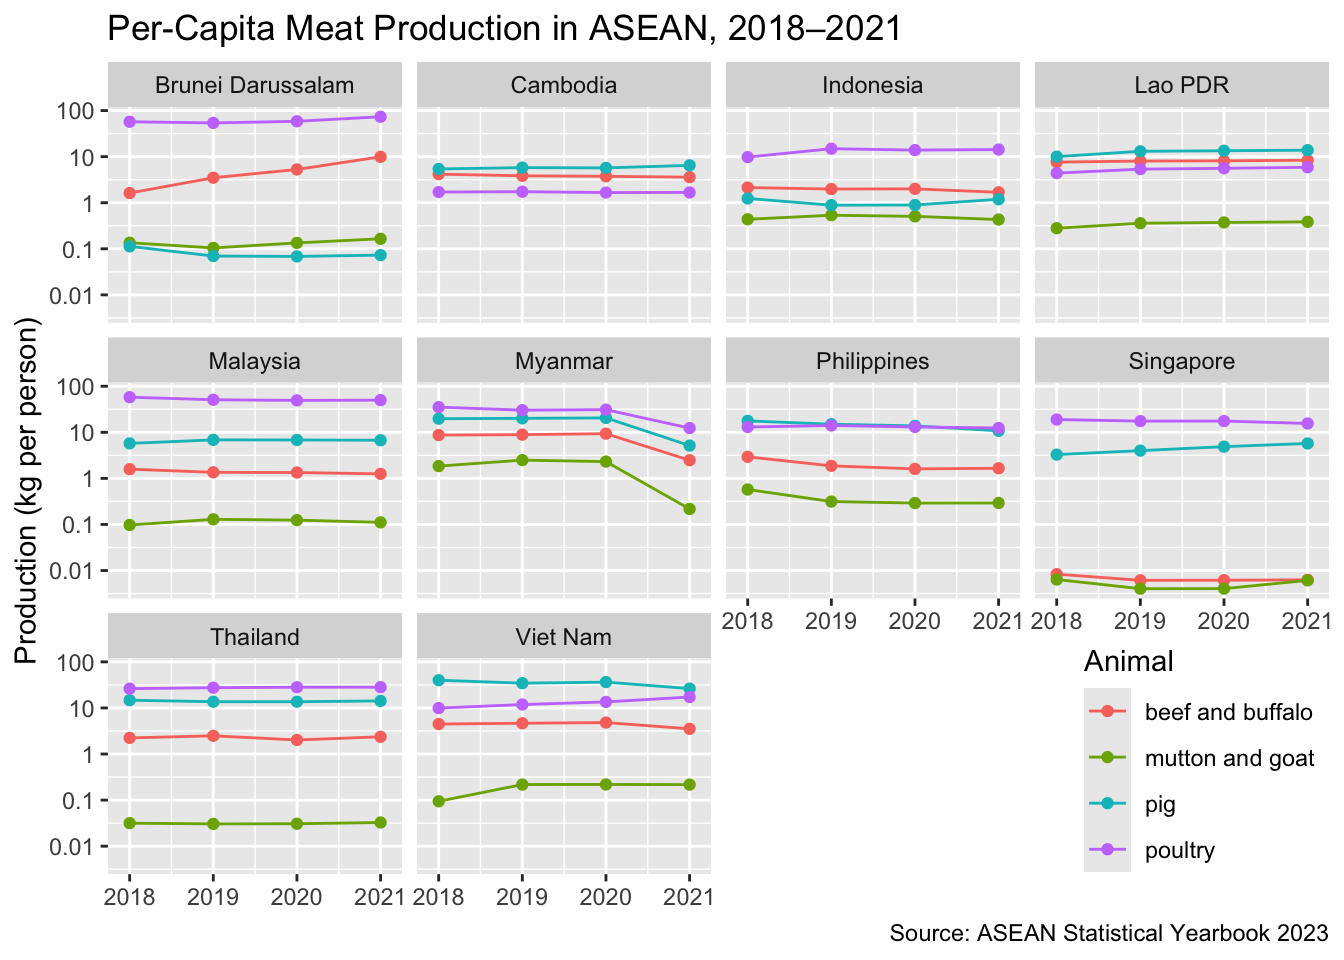
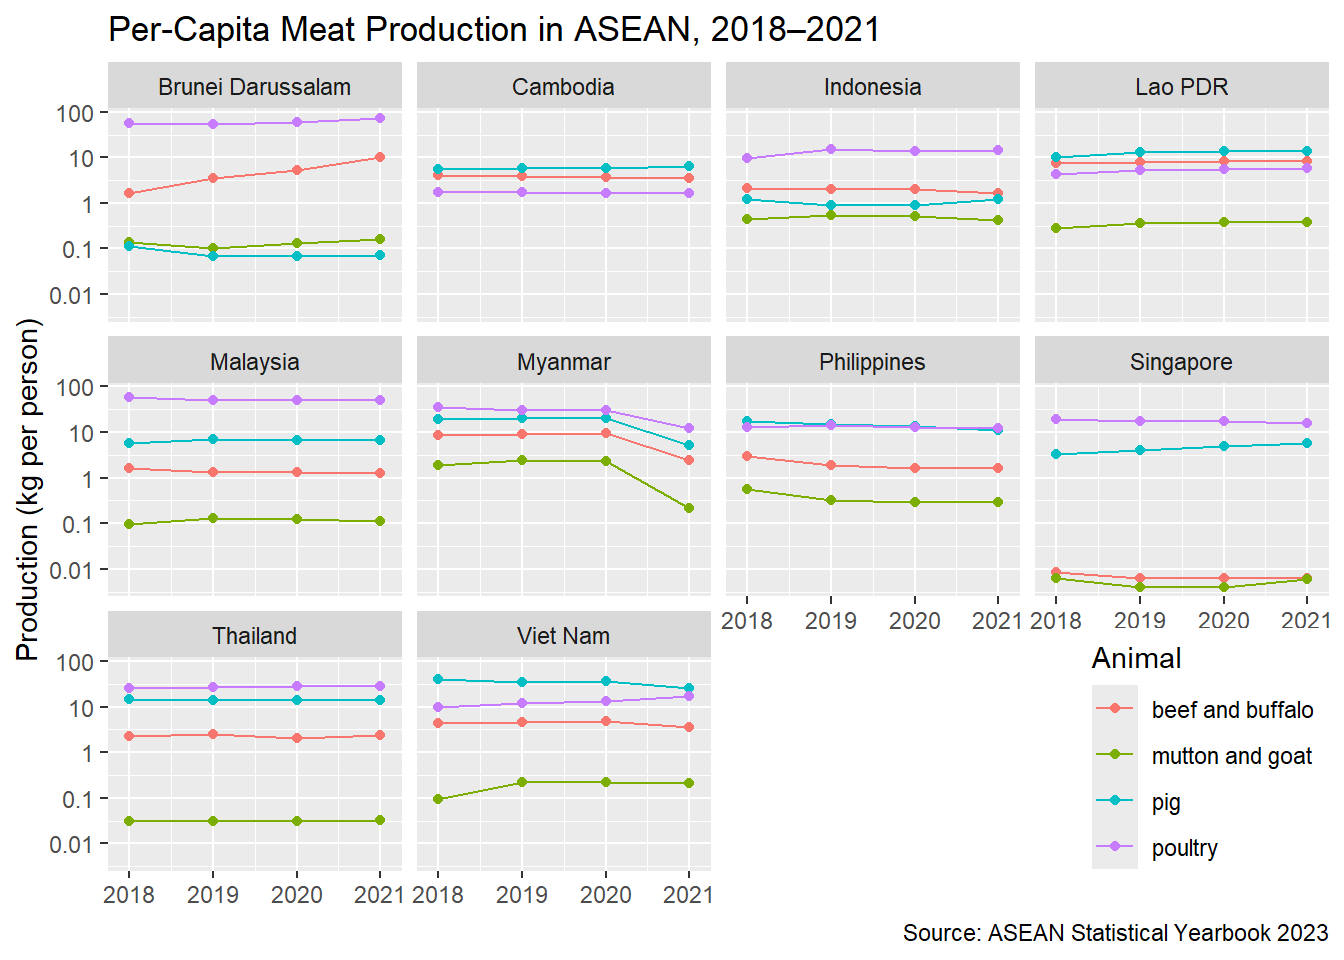
Update of qmd

diff --git a/week3-lab.html b/week3-lab.html
@@ -71,7 +71,7 @@ pre > code.sourceCode > span > a:first-child::before { text-decoration: underlin
 <link href="week3-lab_files/libs/quarto-html/quarto-syntax-highlighting-7f8f88aac4f3542376d5c11b86a4c14d.css" rel="stylesheet" id="quarto-text-highlighting-styles">
 <script src="week3-lab_files/libs/bootstrap/bootstrap.min.js"></script>
 <link href="week3-lab_files/libs/bootstrap/bootstrap-icons.css" rel="stylesheet">
-<link href="week3-lab_files/libs/bootstrap/bootstrap-138a6193a3bd40baf1e627da441a4734.min.css" rel="stylesheet" append-hash="true" id="quarto-bootstrap" data-mode="light">
+<link href="week3-lab_files/libs/bootstrap/bootstrap-efbb37e9afcc02144ebbc7afd12a776f.min.css" rel="stylesheet" append-hash="true" id="quarto-bootstrap" data-mode="light">
 
   <script src="https://cdnjs.cloudflare.com/polyfill/v3/polyfill.min.js?features=es6"></script>
   <script defer="" src="https://cdn.jsdelivr.net/npm/mathjax@3/es5/tex-chtml-full.js" type="text/javascript"></script>
@@ -113,23 +113,25 @@ window.Quarto = {
     <h2 id="toc-title">Table of contents</h2>
    
   <ul>
-  <li><a href="#jun-lum" id="toc-jun-lum" class="nav-link active" data-scroll-target="#jun-lum"><span class="header-section-number">0.1</span> Jun Lum</a></li>
-  <li><a href="#ben" id="toc-ben" class="nav-link" data-scroll-target="#ben"><span class="header-section-number">0.2</span> Ben</a></li>
-  <li><a href="#zen" id="toc-zen" class="nav-link" data-scroll-target="#zen"><span class="header-section-number">0.3</span> Zen</a></li>
-  <li><a href="#reporter-summary-team" id="toc-reporter-summary-team" class="nav-link" data-scroll-target="#reporter-summary-team"><span class="header-section-number">0.4</span> Reporter summary (team)</a></li>
-  <li><a href="#import-the-asean-meat-production-data" id="toc-import-the-asean-meat-production-data" class="nav-link" data-scroll-target="#import-the-asean-meat-production-data"><span class="header-section-number">1</span> 3.2 Import the ASEAN Meat Production Data</a></li>
-  <li><a href="#tidy-the-meat-production-data" id="toc-tidy-the-meat-production-data" class="nav-link" data-scroll-target="#tidy-the-meat-production-data"><span class="header-section-number">2</span> 3.3 Tidy the Meat Production Data</a></li>
-  <li><a href="#correct-cambodias-mutton-and-goat-entries" id="toc-correct-cambodias-mutton-and-goat-entries" class="nav-link" data-scroll-target="#correct-cambodias-mutton-and-goat-entries"><span class="header-section-number">3</span> 3.4 Correct Cambodia’s Mutton-and-Goat Entries</a></li>
-  <li><a href="#checkpoint-compare-meat_tidy-to-reference-data" id="toc-checkpoint-compare-meat_tidy-to-reference-data" class="nav-link" data-scroll-target="#checkpoint-compare-meat_tidy-to-reference-data"><span class="header-section-number">4</span> 3.5 Checkpoint: Compare <code>meat_tidy</code> to Reference Data</a></li>
-  <li><a href="#tidy-the-population-data" id="toc-tidy-the-population-data" class="nav-link" data-scroll-target="#tidy-the-population-data"><span class="header-section-number">5</span> 3.6 Tidy the Population Data</a></li>
-  <li><a href="#checkpoint-compare-pop_tidy-to-reference-data" id="toc-checkpoint-compare-pop_tidy-to-reference-data" class="nav-link" data-scroll-target="#checkpoint-compare-pop_tidy-to-reference-data"><span class="header-section-number">6</span> 3.7 Checkpoint: Compare <code>pop_tidy</code> to Reference Data</a></li>
-  <li><a href="#join-meat-production-to-population" id="toc-join-meat-production-to-population" class="nav-link" data-scroll-target="#join-meat-production-to-population"><span class="header-section-number">7</span> 3.8 Join Meat Production to Population</a></li>
-  <li><a href="#derive-per-capita-production" id="toc-derive-per-capita-production" class="nav-link" data-scroll-target="#derive-per-capita-production"><span class="header-section-number">8</span> 3.9 Derive Per-Capita Production</a></li>
-  <li><a href="#checkpoint-compare-merged-to-reference-data" id="toc-checkpoint-compare-merged-to-reference-data" class="nav-link" data-scroll-target="#checkpoint-compare-merged-to-reference-data"><span class="header-section-number">9</span> 3.10 Checkpoint: Compare <code>merged</code> to Reference Data</a></li>
-  <li><a href="#visualize-the-result" id="toc-visualize-the-result" class="nav-link" data-scroll-target="#visualize-the-result"><span class="header-section-number">10</span> 3.11 Visualize the Result</a></li>
-  <li><a href="#comment-on-the-plot" id="toc-comment-on-the-plot" class="nav-link" data-scroll-target="#comment-on-the-plot"><span class="header-section-number">11</span> 3.12 Comment on the Plot</a></li>
-  <li><a href="#reflect-on-ai-use" id="toc-reflect-on-ai-use" class="nav-link" data-scroll-target="#reflect-on-ai-use"><span class="header-section-number">12</span> 4.1 Reflect on AI Use</a></li>
-  <li><a href="#roles-and-contributions" id="toc-roles-and-contributions" class="nav-link" data-scroll-target="#roles-and-contributions"><span class="header-section-number">13</span> 4.2 Roles and Contributions</a></li>
+  <li><a href="#summary-of-team-predictions-sheet-x.14" id="toc-summary-of-team-predictions-sheet-x.14" class="nav-link active" data-scroll-target="#summary-of-team-predictions-sheet-x.14">3.1 Summary of Team Predictions (Sheet X.14)</a>
+  <ul class="collapse">
+  <li><a href="#part-a-b-columns-classes-and-row-counts" id="toc-part-a-b-columns-classes-and-row-counts" class="nav-link" data-scroll-target="#part-a-b-columns-classes-and-row-counts">Part A &amp; B: Columns, Classes, and Row Counts</a></li>
+  <li><a href="#part-c-why-is-sheet-x.14-not-tidy" id="toc-part-c-why-is-sheet-x.14-not-tidy" class="nav-link" data-scroll-target="#part-c-why-is-sheet-x.14-not-tidy">Part C: Why is Sheet X.14 not tidy</a></li>
+  <li><a href="#reporter-summary-team" id="toc-reporter-summary-team" class="nav-link" data-scroll-target="#reporter-summary-team">Reporter summary (team)</a></li>
+  </ul></li>
+  <li><a href="#import-the-asean-meat-production-data" id="toc-import-the-asean-meat-production-data" class="nav-link" data-scroll-target="#import-the-asean-meat-production-data">3.2 Import the ASEAN Meat Production Data</a></li>
+  <li><a href="#tidy-the-meat-production-data" id="toc-tidy-the-meat-production-data" class="nav-link" data-scroll-target="#tidy-the-meat-production-data">3.3 Tidy the Meat Production Data</a></li>
+  <li><a href="#correct-cambodias-mutton-and-goat-entries" id="toc-correct-cambodias-mutton-and-goat-entries" class="nav-link" data-scroll-target="#correct-cambodias-mutton-and-goat-entries">3.4 Correct Cambodia’s Mutton-and-Goat Entries</a></li>
+  <li><a href="#checkpoint-compare-meat_tidy-to-reference-data" id="toc-checkpoint-compare-meat_tidy-to-reference-data" class="nav-link" data-scroll-target="#checkpoint-compare-meat_tidy-to-reference-data">3.5 Checkpoint: Compare <code>meat_tidy</code> to Reference Data</a></li>
+  <li><a href="#tidy-the-population-data" id="toc-tidy-the-population-data" class="nav-link" data-scroll-target="#tidy-the-population-data">3.6 Tidy the Population Data</a></li>
+  <li><a href="#checkpoint-compare-pop_tidy-to-reference-data" id="toc-checkpoint-compare-pop_tidy-to-reference-data" class="nav-link" data-scroll-target="#checkpoint-compare-pop_tidy-to-reference-data">3.7 Checkpoint: Compare <code>pop_tidy</code> to Reference Data</a></li>
+  <li><a href="#join-meat-production-to-population" id="toc-join-meat-production-to-population" class="nav-link" data-scroll-target="#join-meat-production-to-population">3.8 Join Meat Production to Population</a></li>
+  <li><a href="#derive-per-capita-production" id="toc-derive-per-capita-production" class="nav-link" data-scroll-target="#derive-per-capita-production">3.9 Derive Per-Capita Production</a></li>
+  <li><a href="#checkpoint-compare-merged-to-reference-data" id="toc-checkpoint-compare-merged-to-reference-data" class="nav-link" data-scroll-target="#checkpoint-compare-merged-to-reference-data">3.10 Checkpoint: Compare <code>merged</code> to Reference Data</a></li>
+  <li><a href="#visualize-the-result" id="toc-visualize-the-result" class="nav-link" data-scroll-target="#visualize-the-result">3.11 Visualize the Result</a></li>
+  <li><a href="#comment-on-the-plot" id="toc-comment-on-the-plot" class="nav-link" data-scroll-target="#comment-on-the-plot">3.12 Comment on the Plot</a></li>
+  <li><a href="#reflect-on-ai-use" id="toc-reflect-on-ai-use" class="nav-link" data-scroll-target="#reflect-on-ai-use">4.1 Reflect on AI Use</a></li>
+  <li><a href="#roles-and-contributions" id="toc-roles-and-contributions" class="nav-link" data-scroll-target="#roles-and-contributions">4.2 Roles and Contributions</a></li>
   </ul>
 </nav>
 </div>
@@ -159,62 +161,76 @@ window.Quarto = {
 <span id="cb1-2"><a href="#cb1-2" aria-hidden="true" tabindex="-1"></a><span class="fu">library</span>(readxl)</span>
 <span id="cb1-3"><a href="#cb1-3" aria-hidden="true" tabindex="-1"></a><span class="fu">library</span>(waldo)</span></code></pre></div><button title="Copy to Clipboard" class="code-copy-button"><i class="bi"></i></button></div>
 </div>
-<section id="jun-lum" class="level3" data-number="0.1">
-<h3 data-number="0.1" class="anchored" data-anchor-id="jun-lum"><span class="header-section-number">0.1</span> Jun Lum</h3>
-<p>skip = 3</p>
-<ul>
-<li><code>country</code> (character)</li>
-<li><code>animal</code> / animal type (character)</li>
-<li><code>year</code> (numeric)</li>
-<li><code>production</code> (numeric)</li>
-</ul>
-<p><strong>b) Expected number of rows</strong></p>
-<p><span class="math inline">\(10 \text{ countries} \times 4 \text{ years} \times 4 \text{ animal types} = 160\)</span> rows.</p>
-<p><strong>c) Why sheet X.14 is not tidy</strong></p>
-<ul>
-<li>Years are used as a header row (not a <code>year</code> column).</li>
-<li>Country names appear as column headers (not a <code>country</code> column).</li>
-<li>Total rows mix raw data with summary data.</li>
-</ul>
+<section id="summary-of-team-predictions-sheet-x.14" class="level2">
+<h2 class="anchored" data-anchor-id="summary-of-team-predictions-sheet-x.14">3.1 Summary of Team Predictions (Sheet X.14)</h2>
+<p>As the Team Reporter, I have compiled the predictions from Jun Lum, Benjamin, Bryan, and Zen regarding the tidying of sheet X.14.</p>
+<section id="part-a-b-columns-classes-and-row-counts" class="level3">
+<h3 class="anchored" data-anchor-id="part-a-b-columns-classes-and-row-counts">Part A &amp; B: Columns, Classes, and Row Counts</h3>
+<p>The table below summarizes the team’s expectations for the final tidy dataset structure.</p>
+<table class="caption-top table">
+<colgroup>
+<col style="width: 25%">
+<col style="width: 25%">
+<col style="width: 25%">
+<col style="width: 25%">
+</colgroup>
+<thead>
+<tr class="header">
+<th style="text-align: left;">Member</th>
+<th style="text-align: left;">Expected Columns &amp; Classes</th>
+<th style="text-align: left;">Expected Rows</th>
+<th style="text-align: left;">Reasoning / Formula</th>
+</tr>
+</thead>
+<tbody>
+<tr class="odd">
+<td style="text-align: left;"><strong>Jun Lum</strong></td>
+<td style="text-align: left;">Country (Char), Animal Type (Char), Year (Num), Production (Num)</td>
+<td style="text-align: left;">160</td>
+<td style="text-align: left;"><span class="math inline">\(10 \text{ countries} \times 4 \text{ years} \times 4 \text{ animal types}\)</span></td>
+</tr>
+<tr class="even">
+<td style="text-align: left;"><strong>Benjamin</strong></td>
+<td style="text-align: left;">Country (Char), Animal Type (Char), Year (Num), Production (Num)</td>
+<td style="text-align: left;">160</td>
+<td style="text-align: left;"><span class="math inline">\(10 \text{ countries} \times 4 \text{ years} \times 4 \text{ animal types}\)</span></td>
+</tr>
+<tr class="odd">
+<td style="text-align: left;"><strong>Bryan</strong></td>
+<td style="text-align: left;">Country (Char), Animal Type (Char), Year (Num), Production (Num)</td>
+<td style="text-align: left;">160</td>
+<td style="text-align: left;"><span class="math inline">\(10 \text{ countries} \times 4 \text{ years} \times 4 \text{ animal types}\)</span></td>
+</tr>
+<tr class="even">
+<td style="text-align: left;"><strong>Zen</strong></td>
+<td style="text-align: left;">Country (Char), Animal Type (Char), Year (Num), Production (Num)</td>
+<td style="text-align: left;">160</td>
+<td style="text-align: left;"><span class="math inline">\(10 \text{ countries} \times 4 \text{ years} \times 4 \text{ animal types}\)</span></td>
+</tr>
+</tbody>
+</table>
+<hr>
 </section>
-<section id="ben" class="level3" data-number="0.2">
-<h3 data-number="0.2" class="anchored" data-anchor-id="ben"><span class="header-section-number">0.2</span> Ben</h3>
-<p><strong>a) Columns and classes</strong> rename(country = 1) %&gt;% select(where(~ !all(is.na(.x)))) %&gt;% mutate(country = str_squish(as.character(country))) %&gt;% filter(!is.na(country), country != ““, country !=”ASEAN”) %&gt;% pivot_longer( cols = -country, names_to = “year”, values_to = “pop” ) %&gt;% mutate( year = as.numeric(year), pop = as.numeric(pop) ) %&gt;% <strong>a) Columns and classes</strong></p>
+<section id="part-c-why-is-sheet-x.14-not-tidy" class="level3">
+<h3 class="anchored" data-anchor-id="part-c-why-is-sheet-x.14-not-tidy">Part C: Why is Sheet X.14 not tidy</h3>
+<p>The team identified several distinct violations of tidy data principles in the current layout:</p>
 <ul>
-<li><code>animal</code> / animal type (character)</li>
-<li><code>year</code> (numeric)</li>
-<li><code>country</code> (character)</li>
-<li><code>production</code> (numeric)</li>
-</ul>
-<p><strong>b) Expected number of rows</strong></p>
-<p><span class="math inline">\(10 \times 4 \times 4 = 160\)</span> rows.</p>
-<p><strong>c) Why sheet X.14 is not tidy</strong></p>
+<li><strong>Structural Misplacement of Variables:</strong>
 <ul>
-<li>Years are used as section labels in rows instead of being stored in a proper <code>year</code> column.</li>
-<li>Animal type is mixed with category headings and totals.</li>
-<li>Missing values are represented using symbols like <code>-</code>.</li>
+<li><strong>Years:</strong> Jun Lum and Zen identified years acting as column headers, whereas ben and Bryan noted that years are serving as section labels/stacked within rows.</li>
+<li><strong>Headers:</strong> Jun Lum noted individual country names are being used as column headers.</li>
+</ul></li>
+<li><strong>Mixing Data Levels (Raw vs.&nbsp;Aggregated):</strong> Jun Lum, Benjamin, and Zen all noted that summary columns/rows (e.g., the <strong>ASEAN total column</strong>) are mixed directly into the raw data.</li>
+<li><strong>Data Quality &amp; Redundancy:</strong>
+<ul>
+<li>Benjamin pointed out that “Poultry” rows contain no data and should be removed entirely.</li>
+<li>Bryan noted that missing values are represented inconsistently using symbols like <code>-</code>.</li>
+</ul></li>
 </ul>
+<hr>
 </section>
-<section id="zen" class="level3" data-number="0.3">
-<h3 data-number="0.3" class="anchored" data-anchor-id="zen"><span class="header-section-number">0.3</span> Zen</h3>
-<p><strong>a) Columns and classes</strong></p>
-<ul>
-<li><code>country</code> (character)</li>
-<li><code>animal</code> / animal type (character)</li>
-<li><code>year</code> (numeric)</li>
-<li><code>production</code> (numeric)</li>
-</ul>
-<p><strong>b) Expected number of rows</strong></p>
-<p><span class="math inline">\(10 \text{ countries} \times 4 \text{ years} \times 4 \text{ animal types} = 160\)</span> rows.</p>
-<p><strong>c) Why sheet X.14 is not tidy</strong></p>
-<ul>
-<li>Years are encoded as column headers rather than values.</li>
-<li>Country names and animal groupings are embedded in the layout rather than explicit variables.</li>
-<li>The sheet includes totals/aggregates alongside raw values.</li>
-</ul>
-</section>
-<section id="reporter-summary-team" class="level3" data-number="0.4">
-<h3 data-number="0.4" class="anchored" data-anchor-id="reporter-summary-team"><span class="header-section-number">0.4</span> Reporter summary (team)</h3>
+<section id="reporter-summary-team" class="level3">
+<h3 class="anchored" data-anchor-id="reporter-summary-team">Reporter summary (team)</h3>
 <ul>
 <li><strong>Agreed tidy variables:</strong> <code>country</code> (character), <code>animal</code> (character), <code>year</code> (numeric), <code>production</code> (numeric).</li>
 <li><strong>Agreed row count:</strong> 160 rows (<span class="math inline">\(10 \times 4 \times 4\)</span>).</li>
@@ -222,39 +238,40 @@ window.Quarto = {
 <li><strong>Discrepancies to resolve during cleaning:</strong> Ben expects poultry to have no data and be removable; others treat poultry as one of the four animal categories required by the task. Bryan notes missing values shown as <code>-</code> in the source.</li>
 </ul>
 </section>
-<section id="import-the-asean-meat-production-data" class="level2" data-number="1">
-<h2 data-number="1" class="anchored" data-anchor-id="import-the-asean-meat-production-data"><span class="header-section-number">1</span> 3.2 Import the ASEAN Meat Production Data</h2>
+</section>
+<section id="import-the-asean-meat-production-data" class="level2">
+<h2 class="anchored" data-anchor-id="import-the-asean-meat-production-data">3.2 Import the ASEAN Meat Production Data</h2>
 <p>Open <code>ASEAN-Statistical-Yearbook-2023.xlsx</code> and identify the cell range containing the table in sheet <code>X.14</code>.</p>
 <div class="cell">
 <div class="code-copy-outer-scaffold"><div class="sourceCode cell-code" id="cb2"><pre class="sourceCode r code-with-copy"><code class="sourceCode r"><span id="cb2-1"><a href="#cb2-1" aria-hidden="true" tabindex="-1"></a>meat_raw <span class="ot">&lt;-</span> <span class="fu">read_xlsx</span>(</span>
 <span id="cb2-2"><a href="#cb2-2" aria-hidden="true" tabindex="-1"></a>  <span class="at">path =</span> <span class="st">"ASEAN-Statistical-Yearbook-2023.xlsx"</span>,</span>
 <span id="cb2-3"><a href="#cb2-3" aria-hidden="true" tabindex="-1"></a>  <span class="at">sheet =</span> <span class="st">"X.14"</span>,</span>
-<span id="cb2-4"><a href="#cb2-4" aria-hidden="true" tabindex="-1"></a>  <span class="at">skip =</span> <span class="dv">3</span></span>
+<span id="cb2-4"><a href="#cb2-4" aria-hidden="true" tabindex="-1"></a>  <span class="at">range =</span> <span class="st">"A4:L36"</span></span>
 <span id="cb2-5"><a href="#cb2-5" aria-hidden="true" tabindex="-1"></a>)</span>
 <span id="cb2-6"><a href="#cb2-6" aria-hidden="true" tabindex="-1"></a></span>
 <span id="cb2-7"><a href="#cb2-7" aria-hidden="true" tabindex="-1"></a>meat_raw</span></code></pre></div><button title="Copy to Clipboard" class="code-copy-button"><i class="bi"></i></button></div>
 <div class="cell-output cell-output-stdout">
-<pre><code># A tibble: 35 × 12
+<pre><code># A tibble: 32 × 12
    `Animal Type`       `Brunei Darussalam` Cambodia Indonesia `Lao PDR` Malaysia
-   &lt;chr&gt;                             &lt;dbl&gt; &lt;chr&gt;        &lt;dbl&gt;     &lt;dbl&gt;    &lt;dbl&gt;
- 1 2021                            NA      &lt;NA&gt;           NA      NA       NA   
- 2 Livestock producti…             NA      &lt;NA&gt;           NA      NA       NA   
- 3 Beef and Buffalo M…              4.27   59.5242…      459.     61.3     40.8 
- 4 Pig meat                         0.0314 107.363…      324.    102.     219.  
- 5 Mutton and Goat Me…              0.0709 0             118.      2.83     3.62
- 6 Poultry production               0      0               0       0        0   
- 7 Poultry meat                    31.6    27.7554…     3889.     43.2   1625.  
- 8 Total meat product…             36.0    194.643…     4789.    209.    1889.  
- 9 2020                             0      0               0       0        0   
-10 Livestock producti…              0      0               0       0        0   
-# ℹ 25 more rows
+   &lt;chr&gt;                             &lt;dbl&gt;    &lt;dbl&gt;     &lt;dbl&gt;     &lt;dbl&gt;    &lt;dbl&gt;
+ 1 2021                            NA          NA         NA      NA       NA   
+ 2 Livestock producti…             NA          NA         NA      NA       NA   
+ 3 Beef and Buffalo M…              4.27       59.5      459.     61.3     40.8 
+ 4 Pig meat                         0.0314    107.       324.    102.     219.  
+ 5 Mutton and Goat Me…              0.0709      0        118.      2.83     3.62
+ 6 Poultry production               0           0          0       0        0   
+ 7 Poultry meat                    31.6        27.8     3889.     43.2   1625.  
+ 8 Total meat product…             36.0       195.      4789.    209.    1889.  
+ 9 2020                             0           0          0       0        0   
+10 Livestock producti…              0           0          0       0        0   
+# ℹ 22 more rows
 # ℹ 6 more variables: Myanmar &lt;dbl&gt;, Philippines &lt;dbl&gt;, Singapore &lt;dbl&gt;,
 #   Thailand &lt;dbl&gt;, `Viet Nam` &lt;dbl&gt;, ASEAN &lt;dbl&gt;</code></pre>
 </div>
 </div>
 </section>
-<section id="tidy-the-meat-production-data" class="level2" data-number="2">
-<h2 data-number="2" class="anchored" data-anchor-id="tidy-the-meat-production-data"><span class="header-section-number">2</span> 3.3 Tidy the Meat Production Data</h2>
+<section id="tidy-the-meat-production-data" class="level2">
+<h2 class="anchored" data-anchor-id="tidy-the-meat-production-data">3.3 Tidy the Meat Production Data</h2>
 <div class="cell">
 <div class="code-copy-outer-scaffold"><div class="sourceCode cell-code" id="cb4"><pre class="sourceCode r code-with-copy"><code class="sourceCode r"><span id="cb4-1"><a href="#cb4-1" aria-hidden="true" tabindex="-1"></a>meat_tidy <span class="ot">&lt;-</span> meat_raw <span class="sc">%&gt;%</span></span>
 <span id="cb4-2"><a href="#cb4-2" aria-hidden="true" tabindex="-1"></a>  <span class="fu">rename</span>(<span class="at">label =</span> <span class="dv">1</span>) <span class="sc">%&gt;%</span></span>
@@ -338,8 +355,8 @@ window.Quarto = {
 </div>
 </div>
 </section>
-<section id="correct-cambodias-mutton-and-goat-entries" class="level2" data-number="3">
-<h2 data-number="3" class="anchored" data-anchor-id="correct-cambodias-mutton-and-goat-entries"><span class="header-section-number">3</span> 3.4 Correct Cambodia’s Mutton-and-Goat Entries</h2>
+<section id="correct-cambodias-mutton-and-goat-entries" class="level2">
+<h2 class="anchored" data-anchor-id="correct-cambodias-mutton-and-goat-entries">3.4 Correct Cambodia’s Mutton-and-Goat Entries</h2>
 <p>Justification (brief): we target exactly the four Cambodia + mutton-and-goat rows where the XLSX encodes missing “-” as numeric 0 for years 2018–2021, and replace only those values with <code>NA</code>.</p>
 <div class="cell">
 <div class="code-copy-outer-scaffold"><div class="sourceCode cell-code" id="cb12"><pre class="sourceCode r code-with-copy"><code class="sourceCode r"><span id="cb12-1"><a href="#cb12-1" aria-hidden="true" tabindex="-1"></a>meat_tidy <span class="ot">&lt;-</span> meat_tidy <span class="sc">%&gt;%</span></span>
@@ -368,8 +385,8 @@ window.Quarto = {
 </div>
 </div>
 </section>
-<section id="checkpoint-compare-meat_tidy-to-reference-data" class="level2" data-number="4">
-<h2 data-number="4" class="anchored" data-anchor-id="checkpoint-compare-meat_tidy-to-reference-data"><span class="header-section-number">4</span> 3.5 Checkpoint: Compare <code>meat_tidy</code> to Reference Data</h2>
+<section id="checkpoint-compare-meat_tidy-to-reference-data" class="level2">
+<h2 class="anchored" data-anchor-id="checkpoint-compare-meat_tidy-to-reference-data">3.5 Checkpoint: Compare <code>meat_tidy</code> to Reference Data</h2>
 <div class="cell">
 <div class="code-copy-outer-scaffold"><div class="sourceCode cell-code" id="cb14"><pre class="sourceCode r code-with-copy"><code class="sourceCode r"><span id="cb14-1"><a href="#cb14-1" aria-hidden="true" tabindex="-1"></a>meat_ref <span class="ot">&lt;-</span> <span class="fu">read_csv</span>(<span class="st">"meat_tidy_reference.csv"</span>, <span class="at">show_col_types =</span> <span class="cn">FALSE</span>)</span>
 <span id="cb14-2"><a href="#cb14-2" aria-hidden="true" tabindex="-1"></a><span class="fu">compare</span>(meat_tidy, meat_ref, <span class="at">tolerance =</span> <span class="fl">1e-6</span>)</span></code></pre></div><button title="Copy to Clipboard" class="code-copy-button"><i class="bi"></i></button></div>
@@ -378,8 +395,8 @@ window.Quarto = {
 </div>
 </div>
 </section>
-<section id="tidy-the-population-data" class="level2" data-number="5">
-<h2 data-number="5" class="anchored" data-anchor-id="tidy-the-population-data"><span class="header-section-number">5</span> 3.6 Tidy the Population Data</h2>
+<section id="tidy-the-population-data" class="level2">
+<h2 class="anchored" data-anchor-id="tidy-the-population-data">3.6 Tidy the Population Data</h2>
 <p>Import sheet <code>I.1</code> (population in thousands), excluding the ASEAN aggregate row.</p>
 <div class="cell">
 <div class="code-copy-outer-scaffold"><div class="sourceCode cell-code" id="cb16"><pre class="sourceCode r code-with-copy"><code class="sourceCode r"><span id="cb16-1"><a href="#cb16-1" aria-hidden="true" tabindex="-1"></a>pop_raw <span class="ot">&lt;-</span> <span class="fu">read_xlsx</span>(</span>
@@ -449,8 +466,8 @@ window.Quarto = {
 <span id="cb20-2"><a href="#cb20-2" aria-hidden="true" tabindex="-1"></a><span class="co"># so a trailing space in "Malaysia " is typically removed during import.</span></span></code></pre></div><button title="Copy to Clipboard" class="code-copy-button"><i class="bi"></i></button></div>
 </div>
 </section>
-<section id="checkpoint-compare-pop_tidy-to-reference-data" class="level2" data-number="6">
-<h2 data-number="6" class="anchored" data-anchor-id="checkpoint-compare-pop_tidy-to-reference-data"><span class="header-section-number">6</span> 3.7 Checkpoint: Compare <code>pop_tidy</code> to Reference Data</h2>
+<section id="checkpoint-compare-pop_tidy-to-reference-data" class="level2">
+<h2 class="anchored" data-anchor-id="checkpoint-compare-pop_tidy-to-reference-data">3.7 Checkpoint: Compare <code>pop_tidy</code> to Reference Data</h2>
 <div class="cell">
 <div class="code-copy-outer-scaffold"><div class="sourceCode cell-code" id="cb21"><pre class="sourceCode r code-with-copy"><code class="sourceCode r"><span id="cb21-1"><a href="#cb21-1" aria-hidden="true" tabindex="-1"></a>pop_ref <span class="ot">&lt;-</span> <span class="fu">read_csv</span>(<span class="st">"population_tidy_reference.csv"</span>, <span class="at">show_col_types =</span> <span class="cn">FALSE</span>)</span>
 <span id="cb21-2"><a href="#cb21-2" aria-hidden="true" tabindex="-1"></a><span class="fu">compare</span>(pop_tidy, pop_ref, <span class="at">tolerance =</span> <span class="fl">1e-6</span>)</span></code></pre></div><button title="Copy to Clipboard" class="code-copy-button"><i class="bi"></i></button></div>
@@ -459,8 +476,8 @@ window.Quarto = {
 </div>
 </div>
 </section>
-<section id="join-meat-production-to-population" class="level2" data-number="7">
-<h2 data-number="7" class="anchored" data-anchor-id="join-meat-production-to-population"><span class="header-section-number">7</span> 3.8 Join Meat Production to Population</h2>
+<section id="join-meat-production-to-population" class="level2">
+<h2 class="anchored" data-anchor-id="join-meat-production-to-population">3.8 Join Meat Production to Population</h2>
 <div class="cell">
 <div class="code-copy-outer-scaffold"><div class="sourceCode cell-code" id="cb23"><pre class="sourceCode r code-with-copy"><code class="sourceCode r"><span id="cb23-1"><a href="#cb23-1" aria-hidden="true" tabindex="-1"></a>merged <span class="ot">&lt;-</span> meat_tidy <span class="sc">%&gt;%</span></span>
 <span id="cb23-2"><a href="#cb23-2" aria-hidden="true" tabindex="-1"></a>  <span class="fu">left_join</span>(pop_tidy, <span class="at">by =</span> <span class="fu">c</span>(<span class="st">"country"</span>, <span class="st">"year"</span>)) <span class="sc">%&gt;%</span></span>
@@ -476,8 +493,8 @@ window.Quarto = {
 </div>
 </div>
 </section>
-<section id="derive-per-capita-production" class="level2" data-number="8">
-<h2 data-number="8" class="anchored" data-anchor-id="derive-per-capita-production"><span class="header-section-number">8</span> 3.9 Derive Per-Capita Production</h2>
+<section id="derive-per-capita-production" class="level2">
+<h2 class="anchored" data-anchor-id="derive-per-capita-production">3.9 Derive Per-Capita Production</h2>
 <p>Production is in thousand metric tons; population is in thousand persons. Thus <span class="math inline">\((\text{production}/\text{pop})\)</span> is metric tons per person; multiply by 1000 to get kg per person.</p>
 <div class="cell">
 <div class="code-copy-outer-scaffold"><div class="sourceCode cell-code" id="cb25"><pre class="sourceCode r code-with-copy"><code class="sourceCode r"><span id="cb25-1"><a href="#cb25-1" aria-hidden="true" tabindex="-1"></a>merged <span class="ot">&lt;-</span> merged <span class="sc">%&gt;%</span></span>
@@ -497,8 +514,8 @@ window.Quarto = {
 </div>
 </div>
 </section>
-<section id="checkpoint-compare-merged-to-reference-data" class="level2" data-number="9">
-<h2 data-number="9" class="anchored" data-anchor-id="checkpoint-compare-merged-to-reference-data"><span class="header-section-number">9</span> 3.10 Checkpoint: Compare <code>merged</code> to Reference Data</h2>
+<section id="checkpoint-compare-merged-to-reference-data" class="level2">
+<h2 class="anchored" data-anchor-id="checkpoint-compare-merged-to-reference-data">3.10 Checkpoint: Compare <code>merged</code> to Reference Data</h2>
 <div class="cell">
 <div class="code-copy-outer-scaffold"><div class="sourceCode cell-code" id="cb27"><pre class="sourceCode r code-with-copy"><code class="sourceCode r"><span id="cb27-1"><a href="#cb27-1" aria-hidden="true" tabindex="-1"></a>merged_ref <span class="ot">&lt;-</span> <span class="fu">read_csv</span>(<span class="st">"merged_reference.csv"</span>, <span class="at">show_col_types =</span> <span class="cn">FALSE</span>)</span>
 <span id="cb27-2"><a href="#cb27-2" aria-hidden="true" tabindex="-1"></a><span class="fu">compare</span>(merged, merged_ref, <span class="at">tolerance =</span> <span class="fl">1e-6</span>)</span></code></pre></div><button title="Copy to Clipboard" class="code-copy-button"><i class="bi"></i></button></div>
@@ -507,8 +524,8 @@ window.Quarto = {
 </div>
 </div>
 </section>
-<section id="visualize-the-result" class="level2" data-number="10">
-<h2 data-number="10" class="anchored" data-anchor-id="visualize-the-result"><span class="header-section-number">10</span> 3.11 Visualize the Result</h2>
+<section id="visualize-the-result" class="level2">
+<h2 class="anchored" data-anchor-id="visualize-the-result">3.11 Visualize the Result</h2>
 <div class="cell">
 <div class="code-copy-outer-scaffold"><div class="sourceCode cell-code" id="cb29"><pre class="sourceCode r code-with-copy"><code class="sourceCode r"><span id="cb29-1"><a href="#cb29-1" aria-hidden="true" tabindex="-1"></a><span class="fu">ggplot</span>(</span>
 <span id="cb29-2"><a href="#cb29-2" aria-hidden="true" tabindex="-1"></a>  merged,</span>
@@ -543,20 +560,20 @@ window.Quarto = {
 </div>
 </div>
 </section>
-<section id="comment-on-the-plot" class="level2" data-number="11">
-<h2 data-number="11" class="anchored" data-anchor-id="comment-on-the-plot"><span class="header-section-number">11</span> 3.12 Comment on the Plot</h2>
+<section id="comment-on-the-plot" class="level2">
+<h2 class="anchored" data-anchor-id="comment-on-the-plot">3.12 Comment on the Plot</h2>
 <p>(Write 1+ noteworthy feature and cite a credible source that helps interpret it.)</p>
 </section>
-<section id="reflect-on-ai-use" class="level2" data-number="12">
-<h2 data-number="12" class="anchored" data-anchor-id="reflect-on-ai-use"><span class="header-section-number">12</span> 4.1 Reflect on AI Use</h2>
+<section id="reflect-on-ai-use" class="level2">
+<h2 class="anchored" data-anchor-id="reflect-on-ai-use">4.1 Reflect on AI Use</h2>
 <ul>
 <li>Tool used: (fill in)</li>
 <li>One useful AI suggestion: (fill in)</li>
 <li>One AI response that was wrong/incompatible/etc. and how the team corrected it: (fill in)</li>
 </ul>
 </section>
-<section id="roles-and-contributions" class="level2" data-number="13">
-<h2 data-number="13" class="anchored" data-anchor-id="roles-and-contributions"><span class="header-section-number">13</span> 4.2 Roles and Contributions</h2>
+<section id="roles-and-contributions" class="level2">
+<h2 class="anchored" data-anchor-id="roles-and-contributions">4.2 Roles and Contributions</h2>
 <ul>
 <li>Member A (Coder): …</li>
 <li>Member B (Navigator + Verifier): …</li>